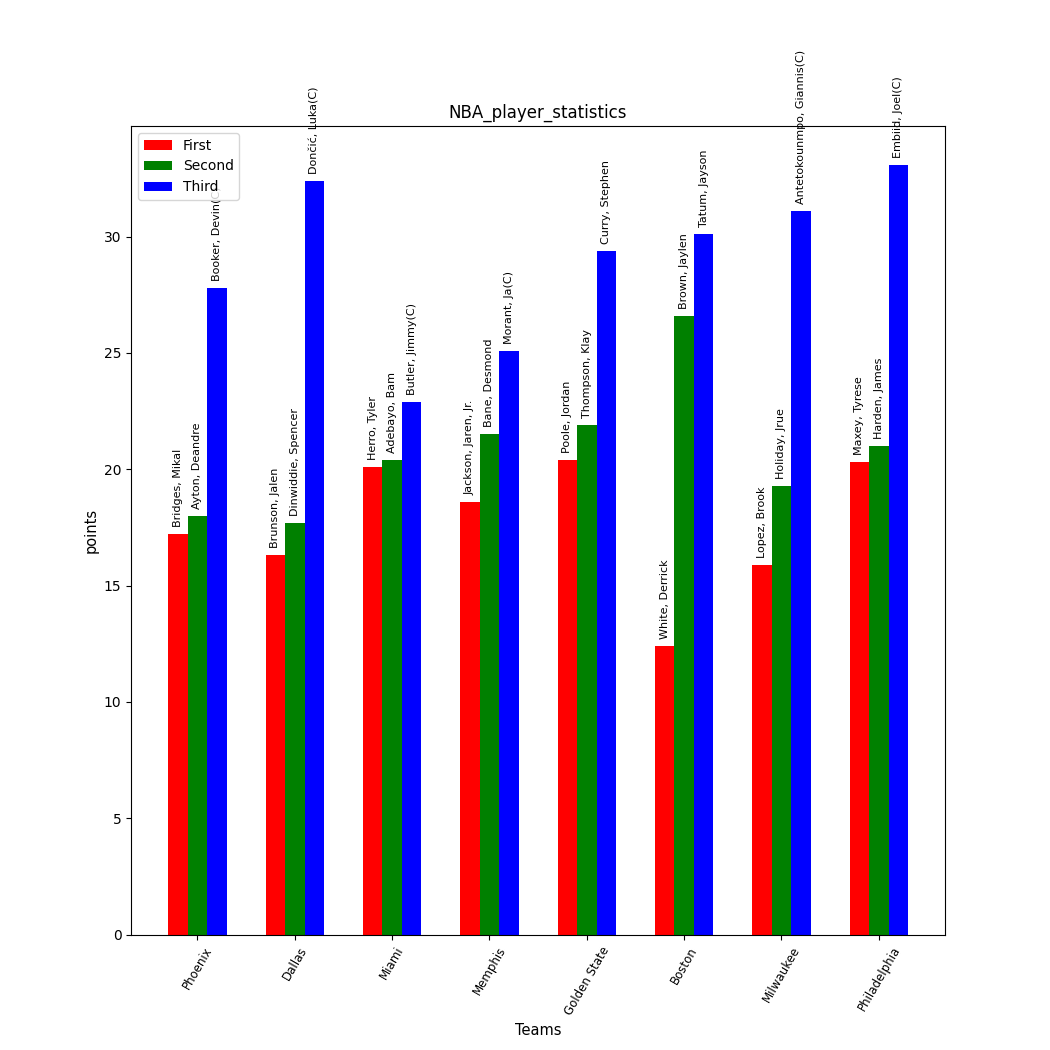
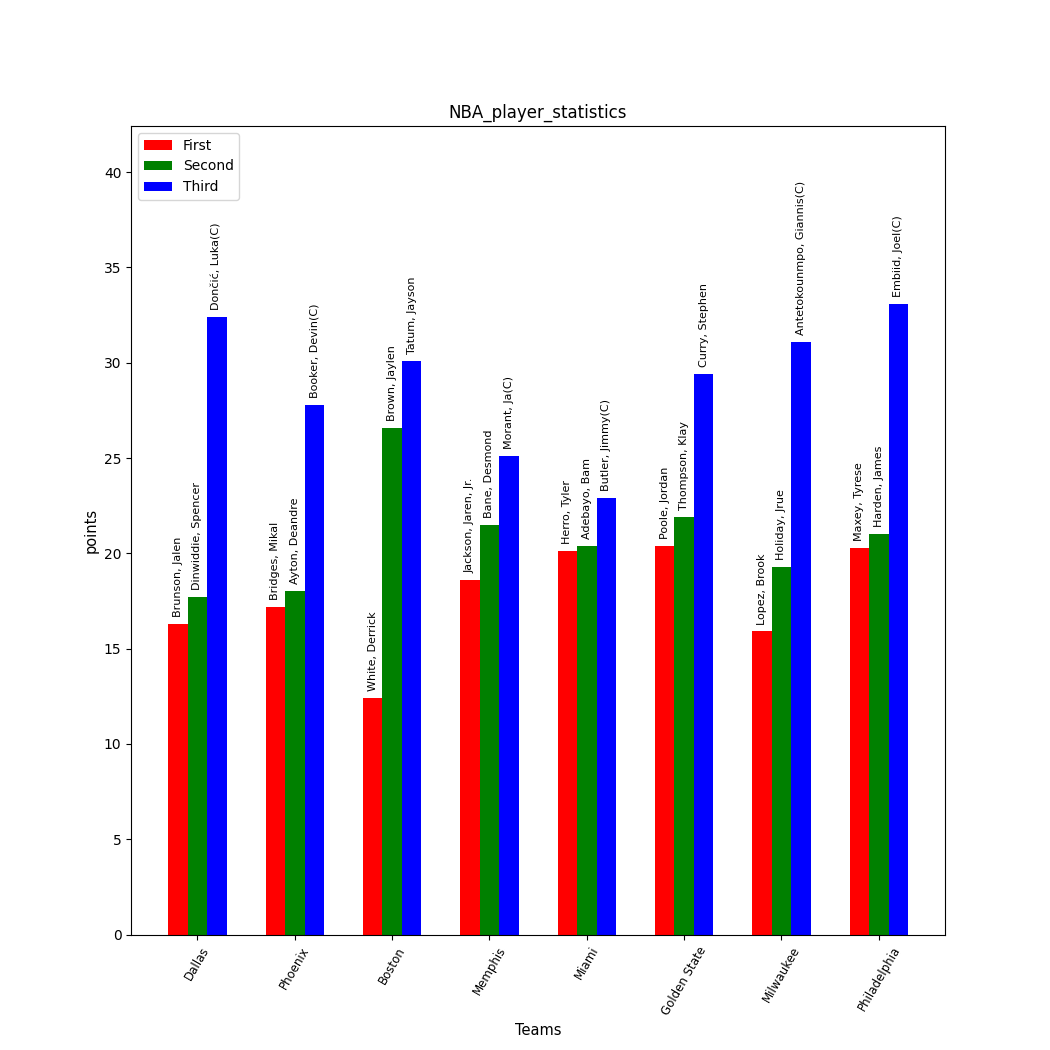
README updates and plot update

diff --git a/fetch_player_statistics.py b/fetch_player_statistics.py
@@ -164,7 +164,7 @@ def plot_best(best: Dict[str, List[Dict]], stat: str = "points") -> None:
     plt.ylabel(stat)
     ax.yaxis.label.set_size(10.5)
     ax.xaxis.label.set_size(10.5)
-    plt.plot(35, highest_y_label+int(highest_y_label/2)) # making the plot bigger to make it more clear, think of it like padding
+    plt.plot(35, highest_y_label+int(highest_y_label/2) + 5) # making the plot bigger to make it more clear, think of it like padding
     plt.title(stats_dir)
     plt.savefig(stats_dir+"/"+stat)
     plt.show()    # u can cmt this out if u dont want plot.
